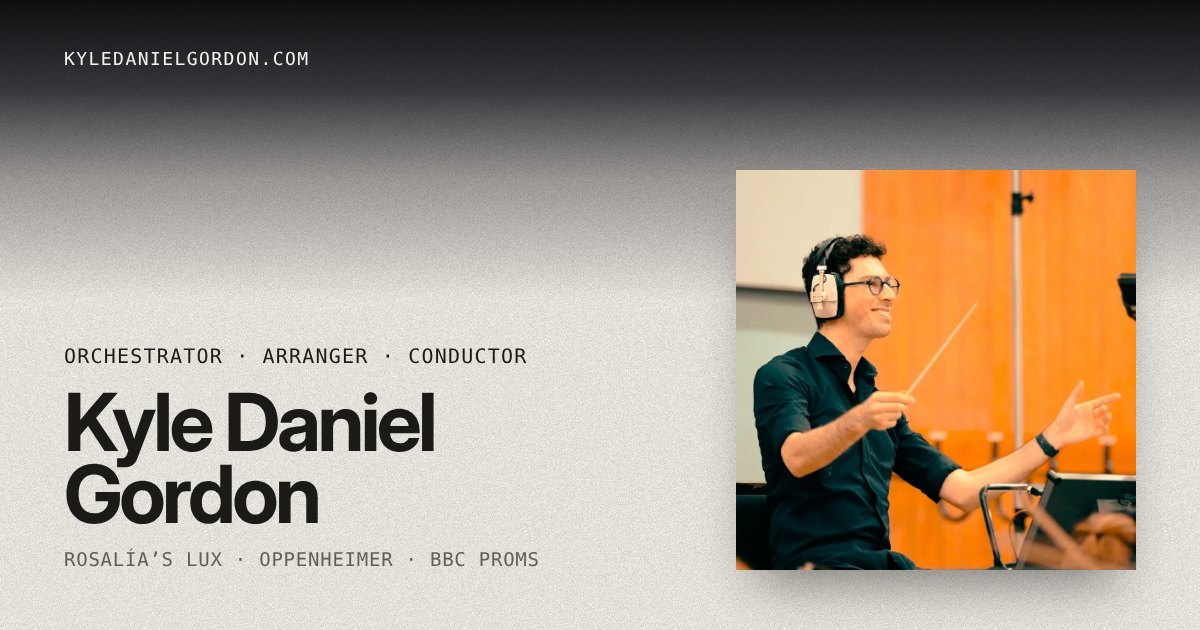
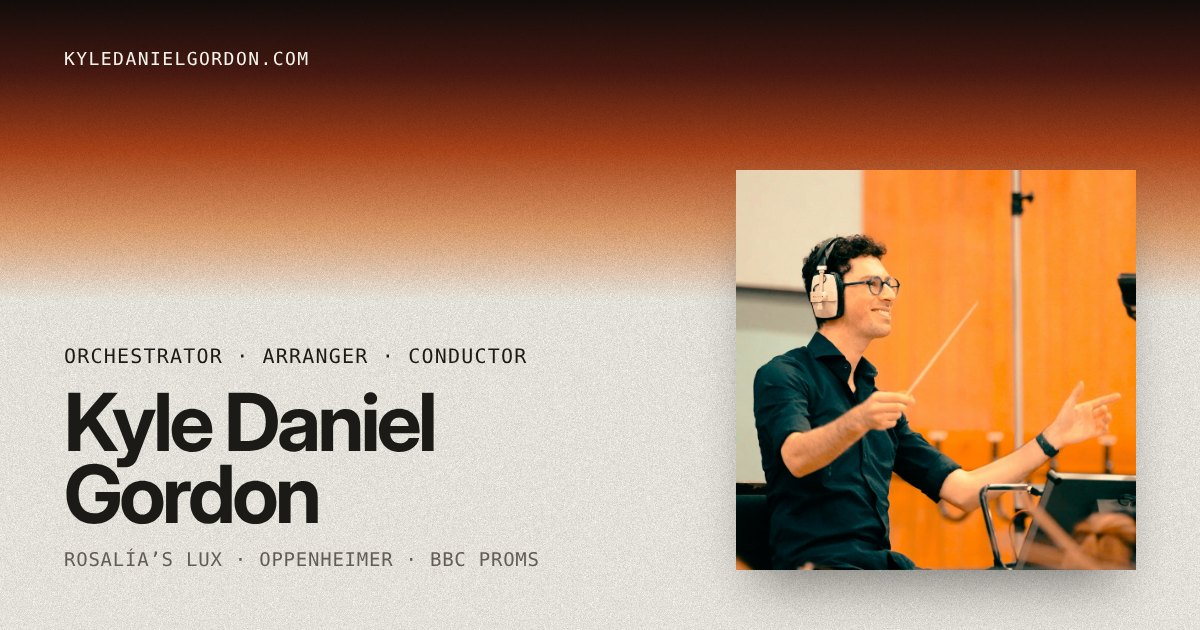
Home share card: use the home page's orange gradient instead of grey
Claude-Session: https://claude.ai/code/session_01J4kEb8i43ScNqshKGYvctF

Claude-Session: https://claude.ai/code/session_01J4kEb8i43ScNqshKGYvctF

diff --git a/public/what-does-an-orchestrator-do/index.html b/public/what-does-an-orchestrator-do/index.html
@@ -27,11 +27,11 @@
 <meta content="What Does an Orchestrator Do? A Guide by Kyle Daniel Gordon" property="og:title"/>
 <meta content="What an orchestrator does on a film score and a pop record, how it differs from arranging and composing, and how to hire one. By orchestrator Kyle Daniel Gordon." property="og:description"/>
 <meta content="https://www.kyledanielgordon.com/what-does-an-orchestrator-do/" property="og:url"/>
-<meta content="https://www.kyledanielgordon.com/img/share-home-kyle-daniel-gordon.jpg?v=2" property="og:image"/>
+<meta content="https://www.kyledanielgordon.com/img/share-home-kyle-daniel-gordon.jpg?v=3" property="og:image"/>
 <meta content="summary_large_image" name="twitter:card"/>
 <meta content="What Does an Orchestrator Do? A Guide by Kyle Daniel Gordon" name="twitter:title"/>
 <meta content="What an orchestrator does on a film score and a pop record, how it differs from arranging and composing, and how to hire one. By orchestrator Kyle Daniel Gordon." name="twitter:description"/>
-<meta content="https://www.kyledanielgordon.com/img/share-home-kyle-daniel-gordon.jpg?v=2" name="twitter:image"/>
+<meta content="https://www.kyledanielgordon.com/img/share-home-kyle-daniel-gordon.jpg?v=3" name="twitter:image"/>
 <meta content="#f7f4ec" name="theme-color"/>
 <link href="/favicon.svg?v=2" rel="icon" type="image/svg+xml"/>
 <link href="/favicon-48.png?v=2" rel="icon" sizes="48x48" type="image/png"/>
@@ -170,7 +170,7 @@
     "Film scoring",
     "String arrangements"
    ],
-   "image": "https://www.kyledanielgordon.com/img/share-home-kyle-daniel-gordon.jpg?v=2"
+   "image": "https://www.kyledanielgordon.com/img/share-home-kyle-daniel-gordon.jpg?v=3"
   }
  ]
 }

diff --git a/public/work/baby-shark-london-symphony-orchestra/index.html b/public/work/baby-shark-london-symphony-orchestra/index.html
@@ -27,11 +27,11 @@
 <meta content="Baby Shark × London Symphony Orchestra: Arranger &amp; Conductor Kyle Daniel Gordon" property="og:title"/>
 <meta content="Kyle Daniel Gordon arranged and conducted the London Symphony Orchestra version of Baby Shark for its 10th anniversary, recorded at LSO St Luke’s, plus the Bebefinn Medley." property="og:description"/>
 <meta content="https://www.kyledanielgordon.com/work/baby-shark-london-symphony-orchestra/" property="og:url"/>
-<meta content="https://www.kyledanielgordon.com/img/share-baby-shark-london-symphony-orchestra-kyle-daniel-gordon.jpg?v=2" property="og:image"/>
+<meta content="https://www.kyledanielgordon.com/img/share-baby-shark-london-symphony-orchestra-kyle-daniel-gordon.jpg?v=3" property="og:image"/>
 <meta content="summary_large_image" name="twitter:card"/>
 <meta content="Baby Shark × London Symphony Orchestra: Arranger &amp; Conductor Kyle Daniel Gordon" name="twitter:title"/>
 <meta content="Kyle Daniel Gordon arranged and conducted the London Symphony Orchestra version of Baby Shark for its 10th anniversary, recorded at LSO St Luke’s, plus the Bebefinn Medley." name="twitter:description"/>
-<meta content="https://www.kyledanielgordon.com/img/share-baby-shark-london-symphony-orchestra-kyle-daniel-gordon.jpg?v=2" name="twitter:image"/>
+<meta content="https://www.kyledanielgordon.com/img/share-baby-shark-london-symphony-orchestra-kyle-daniel-gordon.jpg?v=3" name="twitter:image"/>
 <meta content="#f7f4ec" name="theme-color"/>
 <link href="/favicon.svg?v=2" rel="icon" type="image/svg+xml"/>
 <link href="/favicon-48.png?v=2" rel="icon" sizes="48x48" type="image/png"/>

diff --git a/public/work/grace-kelly-with-strings-at-the-movies/index.html b/public/work/grace-kelly-with-strings-at-the-movies/index.html
@@ -27,11 +27,11 @@
 <meta content="Grace Kelly with Strings: At The Movies, Arranger Kyle Daniel Gordon" property="og:title"/>
 <meta content="Kyle Daniel Gordon was arranger, orchestrator and co-producer on saxophonist Grace Kelly’s film-music album with strings (2024): Morricone, E.T., James Bond, Disney." property="og:description"/>
 <meta content="https://www.kyledanielgordon.com/work/grace-kelly-with-strings-at-the-movies/" property="og:url"/>
-<meta content="https://www.kyledanielgordon.com/img/share-grace-kelly-with-strings-at-the-movies-kyle-daniel-gordon.jpg?v=2" property="og:image"/>
+<meta content="https://www.kyledanielgordon.com/img/share-grace-kelly-with-strings-at-the-movies-kyle-daniel-gordon.jpg?v=3" property="og:image"/>
 <meta content="summary_large_image" name="twitter:card"/>
 <meta content="Grace Kelly with Strings: At The Movies, Arranger Kyle Daniel Gordon" name="twitter:title"/>
 <meta content="Kyle Daniel Gordon was arranger, orchestrator and co-producer on saxophonist Grace Kelly’s film-music album with strings (2024): Morricone, E.T., James Bond, Disney." name="twitter:description"/>
-<meta content="https://www.kyledanielgordon.com/img/share-grace-kelly-with-strings-at-the-movies-kyle-daniel-gordon.jpg?v=2" name="twitter:image"/>
+<meta content="https://www.kyledanielgordon.com/img/share-grace-kelly-with-strings-at-the-movies-kyle-daniel-gordon.jpg?v=3" name="twitter:image"/>
 <meta content="#f7f4ec" name="theme-color"/>
 <link href="/favicon.svg?v=2" rel="icon" type="image/svg+xml"/>
 <link href="/favicon-48.png?v=2" rel="icon" sizes="48x48" type="image/png"/>

diff --git a/public/work/mollie-elizabeth-people-pleaser/index.html b/public/work/mollie-elizabeth-people-pleaser/index.html
@@ -27,11 +27,11 @@
 <meta content="Mollie Elizabeth, People Pleaser: Arranger &amp; Conductor Kyle Daniel Gordon" property="og:title"/>
 <meta content="Kyle Daniel Gordon arranged, orchestrated, score-produced and conducted Mollie Elizabeth’s People Pleaser EP (Capitol Records, 2026), and plays upright bass and music box." property="og:description"/>
 <meta content="https://www.kyledanielgordon.com/work/mollie-elizabeth-people-pleaser/" property="og:url"/>
-<meta content="https://www.kyledanielgordon.com/img/share-mollie-elizabeth-people-pleaser-kyle-daniel-gordon.jpg?v=2" property="og:image"/>
+<meta content="https://www.kyledanielgordon.com/img/share-mollie-elizabeth-people-pleaser-kyle-daniel-gordon.jpg?v=3" property="og:image"/>
 <meta content="summary_large_image" name="twitter:card"/>
 <meta content="Mollie Elizabeth, People Pleaser: Arranger &amp; Conductor Kyle Daniel Gordon" name="twitter:title"/>
 <meta content="Kyle Daniel Gordon arranged, orchestrated, score-produced and conducted Mollie Elizabeth’s People Pleaser EP (Capitol Records, 2026), and plays upright bass and music box." name="twitter:description"/>
-<meta content="https://www.kyledanielgordon.com/img/share-mollie-elizabeth-people-pleaser-kyle-daniel-gordon.jpg?v=2" name="twitter:image"/>
+<meta content="https://www.kyledanielgordon.com/img/share-mollie-elizabeth-people-pleaser-kyle-daniel-gordon.jpg?v=3" name="twitter:image"/>
 <meta content="#f7f4ec" name="theme-color"/>
 <link href="/favicon.svg?v=2" rel="icon" type="image/svg+xml"/>
 <link href="/favicon-48.png?v=2" rel="icon" sizes="48x48" type="image/png"/>

diff --git a/public/work/david-friesen-this-light-has-no-darkness/index.html b/public/work/david-friesen-this-light-has-no-darkness/index.html
@@ -27,11 +27,11 @@
 <meta content="David Friesen, This Light Has No Darkness: Orchestrated by Kyle Daniel Gordon" property="og:title"/>
 <meta content="Bassist David Friesen’s 12-part suite, arranged and orchestrated by Kyle Daniel Gordon for 33-piece chamber orchestra. Origin Records, 2024." property="og:description"/>
 <meta content="https://www.kyledanielgordon.com/work/david-friesen-this-light-has-no-darkness/" property="og:url"/>
-<meta content="https://www.kyledanielgordon.com/img/share-david-friesen-this-light-has-no-darkness-kyle-daniel-gordon.jpg?v=2" property="og:image"/>
+<meta content="https://www.kyledanielgordon.com/img/share-david-friesen-this-light-has-no-darkness-kyle-daniel-gordon.jpg?v=3" property="og:image"/>
 <meta content="summary_large_image" name="twitter:card"/>
 <meta content="David Friesen, This Light Has No Darkness: Orchestrated by Kyle Daniel Gordon" name="twitter:title"/>
 <meta content="Bassist David Friesen’s 12-part suite, arranged and orchestrated by Kyle Daniel Gordon for 33-piece chamber orchestra. Origin Records, 2024." name="twitter:description"/>
-<meta content="https://www.kyledanielgordon.com/img/share-david-friesen-this-light-has-no-darkness-kyle-daniel-gordon.jpg?v=2" name="twitter:image"/>
+<meta content="https://www.kyledanielgordon.com/img/share-david-friesen-this-light-has-no-darkness-kyle-daniel-gordon.jpg?v=3" name="twitter:image"/>
 <meta content="#f7f4ec" name="theme-color"/>
 <link href="/favicon.svg?v=2" rel="icon" type="image/svg+xml"/>
 <link href="/favicon-48.png?v=2" rel="icon" sizes="48x48" type="image/png"/>

diff --git a/public/work/romani-the-untold-story/index.html b/public/work/romani-the-untold-story/index.html
@@ -27,11 +27,11 @@
 <meta content="Romani: The Untold Story, Ion Zanca &amp; LSO: Kyle Daniel Gordon" property="og:title"/>
 <meta content="Kyle Daniel Gordon arranged, orchestrated and conducted Romani: The Untold Story, Ion Zanca’s No. 1 Billboard Classical album with the Dallas String Quartet and the London Symphony Orchestra." property="og:description"/>
 <meta content="https://www.kyledanielgordon.com/work/romani-the-untold-story/" property="og:url"/>
-<meta content="https://www.kyledanielgordon.com/img/share-romani-the-untold-story-kyle-daniel-gordon.jpg?v=2" property="og:image"/>
+<meta content="https://www.kyledanielgordon.com/img/share-romani-the-untold-story-kyle-daniel-gordon.jpg?v=3" property="og:image"/>
 <meta content="summary_large_image" name="twitter:card"/>
 <meta content="Romani: The Untold Story, Ion Zanca &amp; LSO: Kyle Daniel Gordon" name="twitter:title"/>
 <meta content="Kyle Daniel Gordon arranged, orchestrated and conducted Romani: The Untold Story, Ion Zanca’s No. 1 Billboard Classical album with the Dallas String Quartet and the London Symphony Orchestra." name="twitter:description"/>
-<meta content="https://www.kyledanielgordon.com/img/share-romani-the-untold-story-kyle-daniel-gordon.jpg?v=2" name="twitter:image"/>
+<meta content="https://www.kyledanielgordon.com/img/share-romani-the-untold-story-kyle-daniel-gordon.jpg?v=3" name="twitter:image"/>
 <meta content="#f7f4ec" name="theme-color"/>
 <link href="/favicon.svg?v=2" rel="icon" type="image/svg+xml"/>
 <link href="/favicon-48.png?v=2" rel="icon" sizes="48x48" type="image/png"/>

diff --git a/public/es/prensa/index.html b/public/es/prensa/index.html
@@ -27,11 +27,11 @@
 <meta content="Sala de prensa: Kyle Daniel Gordon, orquestador de LUX de Rosalía" property="og:title"/>
 <meta content="Biografías, fotos, citas y datos de Kyle Daniel Gordon, orquestador principal de LUX de Rosalía, grabado con la Orquesta Sinfónica de Londres. Material libre para prensa." property="og:description"/>
 <meta content="https://www.kyledanielgordon.com/es/prensa/" property="og:url"/>
-<meta content="https://www.kyledanielgordon.com/img/share-home-kyle-daniel-gordon.jpg?v=2" property="og:image"/>
+<meta content="https://www.kyledanielgordon.com/img/share-home-kyle-daniel-gordon.jpg?v=3" property="og:image"/>
 <meta content="summary_large_image" name="twitter:card"/>
 <meta content="Sala de prensa: Kyle Daniel Gordon, orquestador de LUX de Rosalía" name="twitter:title"/>
 <meta content="Biografías, fotos, citas y datos de Kyle Daniel Gordon, orquestador principal de LUX de Rosalía, grabado con la Orquesta Sinfónica de Londres. Material libre para prensa." name="twitter:description"/>
-<meta content="https://www.kyledanielgordon.com/img/share-home-kyle-daniel-gordon.jpg?v=2" name="twitter:image"/>
+<meta content="https://www.kyledanielgordon.com/img/share-home-kyle-daniel-gordon.jpg?v=3" name="twitter:image"/>
 <meta content="#f7f4ec" name="theme-color"/>
 <link href="/favicon.svg?v=2" rel="icon" type="image/svg+xml"/>
 <link href="/favicon-48.png?v=2" rel="icon" sizes="48x48" type="image/png"/>

diff --git a/public/es/rosalia-lux/index.html b/public/es/rosalia-lux/index.html
@@ -27,11 +27,11 @@
 <meta content="Rosalía, LUX: orquestaciones de Kyle Daniel Gordon" property="og:title"/>
 <meta content="Kyle Daniel Gordon fue el orquestador principal de LUX de Rosalía, grabado con la Orquesta Sinfónica de Londres. Seis Latin Grammy; nominado al Grammy a Álbum del Año." property="og:description"/>
 <meta content="https://www.kyledanielgordon.com/es/rosalia-lux/" property="og:url"/>
-<meta content="https://www.kyledanielgordon.com/img/share-rosalia-lux-kyle-daniel-gordon.jpg?v=2" property="og:image"/>
+<meta content="https://www.kyledanielgordon.com/img/share-rosalia-lux-kyle-daniel-gordon.jpg?v=3" property="og:image"/>
 <meta content="summary_large_image" name="twitter:card"/>
 <meta content="Rosalía, LUX: orquestaciones de Kyle Daniel Gordon" name="twitter:title"/>
 <meta content="Kyle Daniel Gordon fue el orquestador principal de LUX de Rosalía, grabado con la Orquesta Sinfónica de Londres. Seis Latin Grammy; nominado al Grammy a Álbum del Año." name="twitter:description"/>
-<meta content="https://www.kyledanielgordon.com/img/share-rosalia-lux-kyle-daniel-gordon.jpg?v=2" name="twitter:image"/>
+<meta content="https://www.kyledanielgordon.com/img/share-rosalia-lux-kyle-daniel-gordon.jpg?v=3" name="twitter:image"/>
 <meta content="#f7f4ec" name="theme-color"/>
 <link href="/favicon.svg?v=2" rel="icon" type="image/svg+xml"/>
 <link href="/favicon-48.png?v=2" rel="icon" sizes="48x48" type="image/png"/>

diff --git a/public/work/rosalia-lux/index.html b/public/work/rosalia-lux/index.html
@@ -27,11 +27,11 @@
 <meta content="Rosalía LUX Orchestrations, Kyle Daniel Gordon" property="og:title"/>
 <meta content="Kyle Daniel Gordon orchestrated Rosalía’s LUX, recorded with the London Symphony Orchestra at AIR Studios. Six Latin Grammys; Grammy Album of the Year nominee." property="og:description"/>
 <meta content="https://www.kyledanielgordon.com/work/rosalia-lux/" property="og:url"/>
-<meta content="https://www.kyledanielgordon.com/img/share-rosalia-lux-kyle-daniel-gordon.jpg?v=2" property="og:image"/>
+<meta content="https://www.kyledanielgordon.com/img/share-rosalia-lux-kyle-daniel-gordon.jpg?v=3" property="og:image"/>
 <meta content="summary_large_image" name="twitter:card"/>
 <meta content="Rosalía LUX Orchestrations, Kyle Daniel Gordon" name="twitter:title"/>
 <meta content="Kyle Daniel Gordon orchestrated Rosalía’s LUX, recorded with the London Symphony Orchestra at AIR Studios. Six Latin Grammys; Grammy Album of the Year nominee." name="twitter:description"/>
-<meta content="https://www.kyledanielgordon.com/img/share-rosalia-lux-kyle-daniel-gordon.jpg?v=2" name="twitter:image"/>
+<meta content="https://www.kyledanielgordon.com/img/share-rosalia-lux-kyle-daniel-gordon.jpg?v=3" name="twitter:image"/>
 <meta content="#f7f4ec" name="theme-color"/>
 <link href="/favicon.svg?v=2" rel="icon" type="image/svg+xml"/>
 <link href="/favicon-48.png?v=2" rel="icon" sizes="48x48" type="image/png"/>

diff --git a/public/live/index.html b/public/live/index.html
@@ -27,11 +27,11 @@
 <meta content="BBC Proms Arranger and Organist, Kyle Daniel Gordon" property="og:title"/>
 <meta content="Arranger and organist at the BBC Proms: Bond and Beyond (Radiohead’s “Spectre”), Soul Revolution, Marvin Gaye. The Little Bird premiered by the San Francisco Symphony." property="og:description"/>
 <meta content="https://www.kyledanielgordon.com/live/" property="og:url"/>
-<meta content="https://www.kyledanielgordon.com/img/share-live-kyle-daniel-gordon.jpg?v=2" property="og:image"/>
+<meta content="https://www.kyledanielgordon.com/img/share-live-kyle-daniel-gordon.jpg?v=3" property="og:image"/>
 <meta content="summary_large_image" name="twitter:card"/>
 <meta content="BBC Proms Arranger and Organist, Kyle Daniel Gordon" name="twitter:title"/>
 <meta content="Arranger and organist at the BBC Proms: Bond and Beyond (Radiohead’s “Spectre”), Soul Revolution, Marvin Gaye. The Little Bird premiered by the San Francisco Symphony." name="twitter:description"/>
-<meta content="https://www.kyledanielgordon.com/img/share-live-kyle-daniel-gordon.jpg?v=2" name="twitter:image"/>
+<meta content="https://www.kyledanielgordon.com/img/share-live-kyle-daniel-gordon.jpg?v=3" name="twitter:image"/>
 <meta content="#f7f4ec" name="theme-color"/>
 <link href="/favicon.svg?v=2" rel="icon" type="image/svg+xml"/>
 <link href="/favicon-48.png?v=2" rel="icon" sizes="48x48" type="image/png"/>

diff --git a/public/work/ariza-magia-en-dos/index.html b/public/work/ariza-magia-en-dos/index.html
@@ -27,11 +27,11 @@
 <meta content="Ariza, Magia en Dos: Orchestrator Kyle Daniel Gordon" property="og:title"/>
 <meta content="Kyle Daniel Gordon orchestrated Ariza’s 2025 album Magia en Dos, with Morat, Juliana, nic and ROBI. Orquestador: Kyle Daniel Gordon." property="og:description"/>
 <meta content="https://www.kyledanielgordon.com/work/ariza-magia-en-dos/" property="og:url"/>
-<meta content="https://www.kyledanielgordon.com/img/share-ariza-magia-en-dos-kyle-daniel-gordon.jpg?v=2" property="og:image"/>
+<meta content="https://www.kyledanielgordon.com/img/share-ariza-magia-en-dos-kyle-daniel-gordon.jpg?v=3" property="og:image"/>
 <meta content="summary_large_image" name="twitter:card"/>
 <meta content="Ariza, Magia en Dos: Orchestrator Kyle Daniel Gordon" name="twitter:title"/>
 <meta content="Kyle Daniel Gordon orchestrated Ariza’s 2025 album Magia en Dos, with Morat, Juliana, nic and ROBI. Orquestador: Kyle Daniel Gordon." name="twitter:description"/>
-<meta content="https://www.kyledanielgordon.com/img/share-ariza-magia-en-dos-kyle-daniel-gordon.jpg?v=2" name="twitter:image"/>
+<meta content="https://www.kyledanielgordon.com/img/share-ariza-magia-en-dos-kyle-daniel-gordon.jpg?v=3" name="twitter:image"/>
 <meta content="#f7f4ec" name="theme-color"/>
 <link href="/favicon.svg?v=2" rel="icon" type="image/svg+xml"/>
 <link href="/favicon-48.png?v=2" rel="icon" sizes="48x48" type="image/png"/>

diff --git a/public/orchestrator-los-angeles/index.html b/public/orchestrator-los-angeles/index.html
@@ -27,11 +27,11 @@
 <meta content="Orchestrator in Los Angeles: Kyle Daniel Gordon" property="og:title"/>
 <meta content="Los Angeles orchestrator, arranger and conductor for film, TV and records: Rosalía’s LUX, Oppenheimer, Frozen II, Star Wars. Orchestration, strings, score prep." property="og:description"/>
 <meta content="https://www.kyledanielgordon.com/orchestrator-los-angeles/" property="og:url"/>
-<meta content="https://www.kyledanielgordon.com/img/share-home-kyle-daniel-gordon.jpg?v=2" property="og:image"/>
+<meta content="https://www.kyledanielgordon.com/img/share-home-kyle-daniel-gordon.jpg?v=3" property="og:image"/>
 <meta content="summary_large_image" name="twitter:card"/>
 <meta content="Orchestrator in Los Angeles: Kyle Daniel Gordon" name="twitter:title"/>
 <meta content="Los Angeles orchestrator, arranger and conductor for film, TV and records: Rosalía’s LUX, Oppenheimer, Frozen II, Star Wars. Orchestration, strings, score prep." name="twitter:description"/>
-<meta content="https://www.kyledanielgordon.com/img/share-home-kyle-daniel-gordon.jpg?v=2" name="twitter:image"/>
+<meta content="https://www.kyledanielgordon.com/img/share-home-kyle-daniel-gordon.jpg?v=3" name="twitter:image"/>
 <meta content="#f7f4ec" name="theme-color"/>
 <link href="/favicon.svg?v=2" rel="icon" type="image/svg+xml"/>
 <link href="/favicon-48.png?v=2" rel="icon" sizes="48x48" type="image/png"/>
